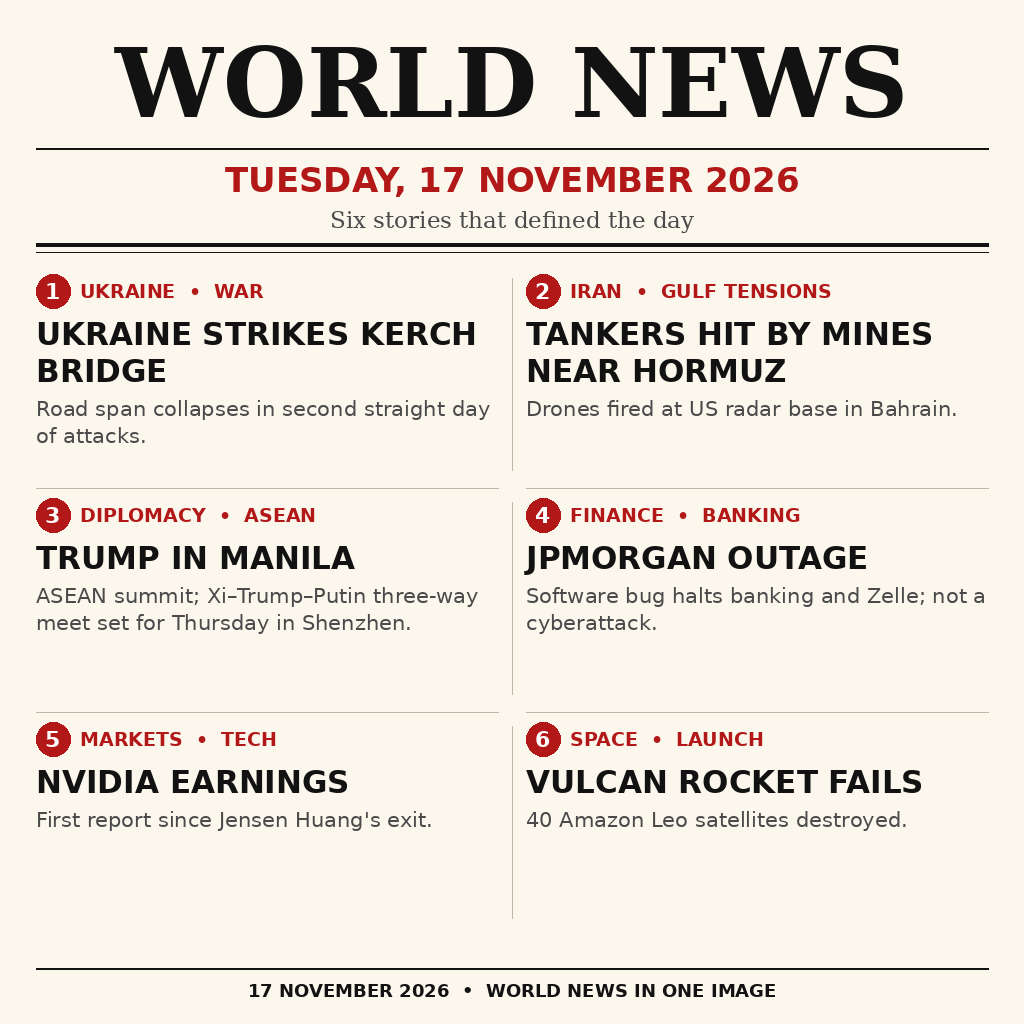
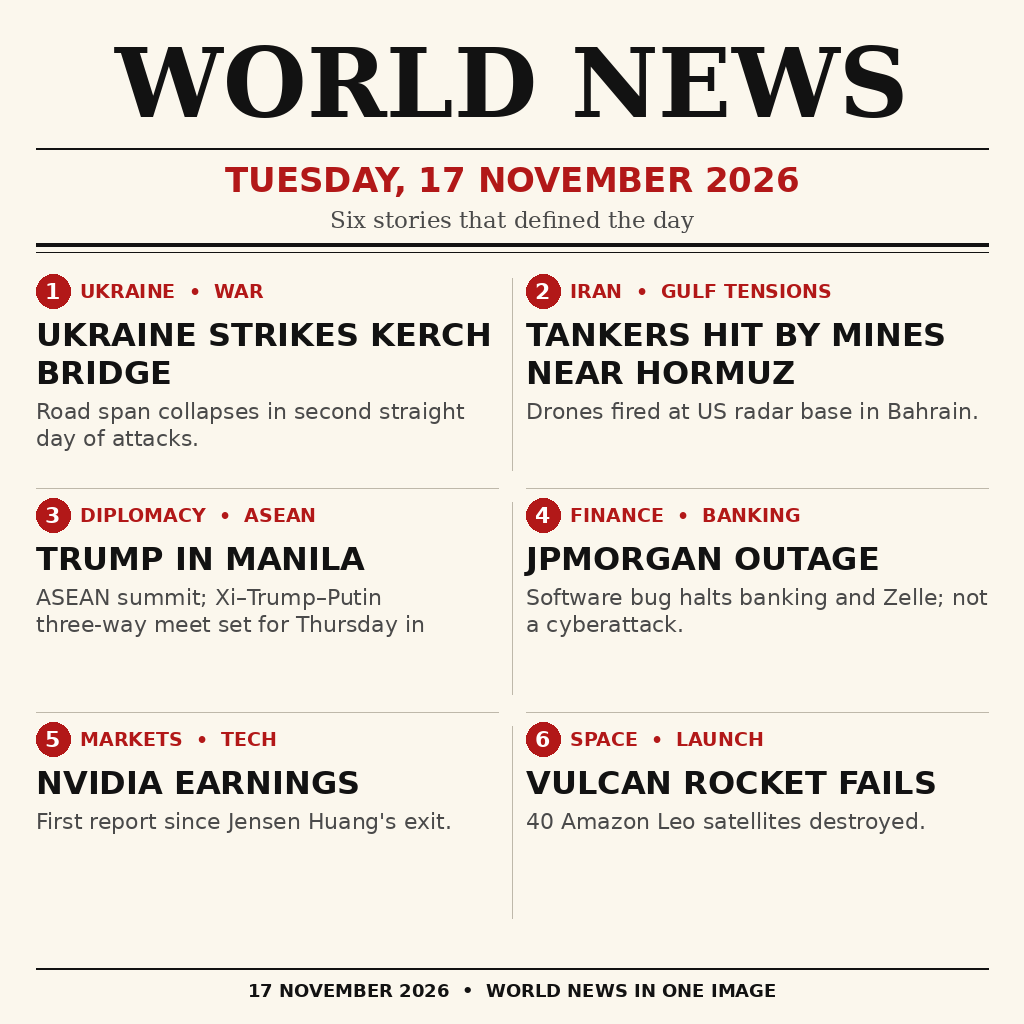
Bump headline and summary type one step for legibility at small sizes

diff --git a/draw_image.py b/draw_image.py
@@ -83,16 +83,16 @@ def draw_story(draw, x, y, cell_w, cell_h, number, kicker, headline, summary):
     draw.text((x + 44, y + 8), kicker, font=kick_font, fill=RED)
 
     # Headline: big, bold, up to 3 lines.
-    head_font = font(SANS_BOLD, 31)
+    head_font = font(SANS_BOLD, 32)
     text_w = cell_w
     lines = wrap(draw, headline, head_font, text_w)
     hy = y + 44
     for line in lines[:3]:
         draw.text((x, hy), line, font=head_font, fill=INK)
-        hy += 37
+        hy += 38
 
     # Summary: one or two lines, regular weight.
-    sum_font = font(SANS, 21)
+    sum_font = font(SANS, 22)
     slines = wrap(draw, summary, sum_font, text_w)
     sy = hy + 6
     for line in slines[:2]:
